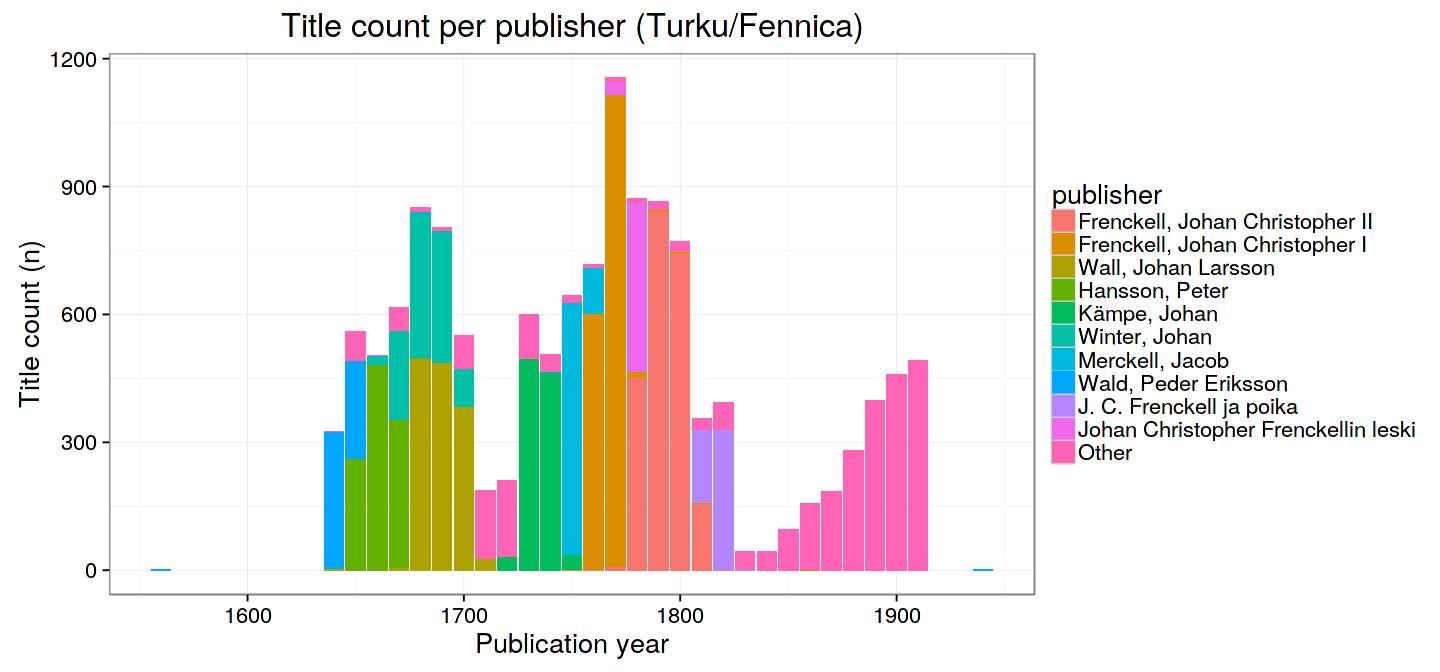
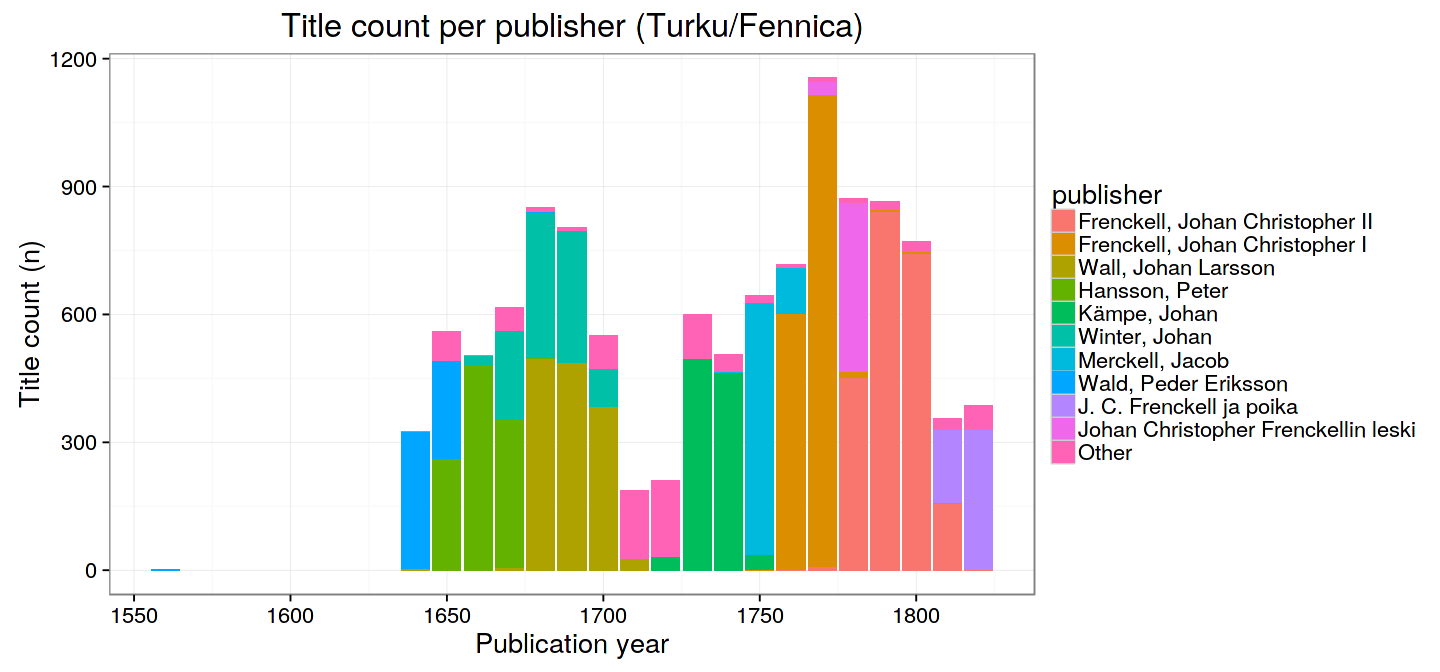
ok

diff --git a/inst/examples/manuscript-krakow.md b/inst/examples/manuscript-krakow.md
@@ -275,40 +275,102 @@ Samat analyysit kuin yllä, seuraavat asiasanaryppäät. Tarkoituksena analysoid
 
 Näissä kiinnostaa myös julkaisijakohtaiset vaihtelut (tai oikeastaan kaikki kuvat joita esim. BOOKINFINLAND-4:ssa. Tämä vain jatkaa siitä mihin tuo edellinen jää.
 
-\`\`\`{r topics44, echo=TRUE, message=FALSE, warning=FALSE, fig.width=12, fig.height=6, out.width="430px", fig.show="hold"}
-===========================================================================================================================
+**OK riittääkö alla olevat vai jotain vielä lisää?**
 
-selections = list( c("kirkkohistoria","raamatunhistoria","eksegetiikka","homiletiikka","dogmatiikka","teologia"), c("oppihistoria","antiikki","historia"), c("filosofia","luonnonfilosofia","metafysiikka","logiikka"), c("luonnontieteet","matematiikka","fysiikka","kemia","tähtitiede","maantiede","geodesia","geofysiikka","meteorologia"), c("retoriikka","poetiikka","kielitiede","kielioppi"), c("heprean kieli","kreikan kieli","latinan kieli"), c("psykologia","yhteiskuntafilosofia","valtiofilosofia","talous","raha","moraali","velvollisuudet","kasvatus","maanviljely","maatalous","kalastus"), c("luonnonhistoria","lääketiede","tartuntataudit","eläintiede","kasvitiede","kasvisto","eläimet","eläinsuojelu","eläimistö","eläintaudit","hevonen"), c("naiset","naisen asema","naisasialiikkeet","naisasiajärjestöt"), c("etsintäkuulutukset","rikokset","oikeus","rangaistukset"))
+``` r
+selections = list(
+  c("kirkkohistoria","raamatunhistoria","eksegetiikka","homiletiikka","dogmatiikka","teologia"),
+  c("oppihistoria","antiikki","historia"),
+  c("filosofia","luonnonfilosofia","metafysiikka","logiikka"),
+  c("luonnontieteet","matematiikka","fysiikka","kemia","tähtitiede","maantiede","geodesia","geofysiikka","meteorologia"),
+  c("retoriikka","poetiikka","kielitiede","kielioppi"),
+  c("heprean kieli","kreikan kieli","latinan kieli"),
+  c("psykologia","yhteiskuntafilosofia","valtiofilosofia","talous","raha","moraali","velvollisuudet","kasvatus","maanviljely","maatalous","kalastus"),
+  c("luonnonhistoria","lääketiede","tartuntataudit","eläintiede","kasvitiede","kasvisto","eläimet","eläinsuojelu","eläimistö","eläintaudit","hevonen"),
+  c("naiset","naisen asema","naisasialiikkeet","naisasiajärjestöt"),
+  c("etsintäkuulutukset","rikokset","oikeus","rangaistukset"))
+
 
 for (sel in selections) {
 
 print(paste(sel, collapse = ";"))
 
-catalogue &lt;- "Fennica" df = df0 df\(hit <- apply((sapply(sel, function (x) {grepl(x, tolower(df\)subject\_topic))})), 1, any)
+catalogue <- "Fennica"
+df = df0
+df$hit <- apply((sapply(sel, function (x) {grepl(x, tolower(df$subject_topic))})), 1, any)  
 
-Selected catalogue with selected topics
-=======================================
+# Selected catalogue with selected topics
+df <- df %>% filter(catalog == catalogue & hit)
 
-df &lt;- df %&gt;% filter(catalog == catalogue & hit)
+langs <- c("Finnish", "Swedish", "Latin", "German", "Other")
+lang <- paste("language.", langs, sep = "")
+otherlang <- setdiff(names(df)[grep("lang.", names(df))], lang)
+df$language.Other <- rowSums(df[, otherlang] == TRUE, na.rm = T) > 0
+dfl <- NULL
+for (lan in lang) {
+  # Classify a document to the specifed language
+  # If document is assigned with languages, each case is considered
+  # so one doc may have multiple entries corresponding to different languages
+  # mean(rowSums(df[, lang]) == 1) # 93% Fennica docs have just 1 language
+  # Combine data frames for specified languages
+  dflsub <- filter(df, df[[lan]])
+  if (nrow(dflsub) > 0) {
+    dflsub$language <- gsub("language.", "", lan)
+    dfl <- bind_rows(dfl, dflsub)
+  }
+}
+dfl$language <- factor(dfl$language, levels = names(table(dfl$language)))
 
-langs &lt;- c("Finnish", "Swedish", "Latin", "German", "Other") lang &lt;- paste("language.", langs, sep = "") otherlang &lt;- setdiff(names(df)\[grep("lang.", names(df))\], lang) df\(language.Other <- rowSums(df[, otherlang] == TRUE, na.rm = T) > 0 dfl <- NULL for (lan in lang) {  # Classify a document to the specifed language  # If document is assigned with languages, each case is considered  # so one doc may have multiple entries corresponding to different languages  # mean(rowSums(df[, lang]) == 1) # 93% Fennica docs have just 1 language  # Combine data frames for specified languages  dflsub <- filter(df, df[[lan]])  if (nrow(dflsub) > 0) {  dflsub\)language &lt;- gsub("language.", "", lan) dfl &lt;- bind\_rows(dfl, dflsub) } } dfl\(language <- factor(dfl\)language, levels = names(table(dfl$language)))
+# -------------------------------------------
 
--------------------------------------------
-===========================================
+df <- dfl %>% group_by(publication_decade, language) %>%
+             summarise(n = n(),
+                   paper = sum(paper.consumption.km2, na.rm = TRUE))
 
-df &lt;- dfl %&gt;% group\_by(publication\_decade, language) %&gt;% summarise(n = n(), paper = sum(paper.consumption.km2, na.rm = TRUE))
+# TITLE COUNT
+theme_set(theme_bw(20))
+p <- ggplot(df, aes(x = publication_decade, y = n, group = language)) +
+       geom_point(aes(col = language, shape = language), size = 5) +
+       geom_line(aes(col = language, shape = language)) +       
+       xlab("Publication year") +
+       ylab("Title count (n)") +
+       ggtitle(paste("Languages (", catalogue, ")", sep = ""))
+print(p)
 
-TITLE COUNT
-===========
 
-theme\_set(theme\_bw(20)) p &lt;- ggplot(df, aes(x = publication\_decade, y = n, group = language)) + geom\_point(aes(col = language, shape = language), size = 5) + geom\_line(aes(col = language, shape = language)) +
-xlab("Publication year") + ylab("Title count (n)") + ggtitle(paste("Languages (", catalogue, ")", sep = "")) print(p)
+# PAPER CONSUMPTION
+theme_set(theme_bw(20))
+p <- ggplot(df, aes(x = publication_decade, y = paper, group = language)) +
+       geom_point(aes(col = language, shape = language), size = 5) +
+       geom_line(aes(col = language, shape = language)) +       
+       xlab("Publication year") +
+       ylab("Paper consumption") +
+       ggtitle(paste("Languages (", catalogue, ")", sep = ""))
+print(p)
+}
+```
 
-PAPER CONSUMPTION
-=================
+    ## [1] "kirkkohistoria;raamatunhistoria;eksegetiikka;homiletiikka;dogmatiikka;teologia"
 
-theme\_set(theme\_bw(20)) p &lt;- ggplot(df, aes(x = publication\_decade, y = paper, group = language)) + geom\_point(aes(col = language, shape = language), size = 5) + geom\_line(aes(col = language, shape = language)) +
-xlab("Publication year") + ylab("Paper consumption") + ggtitle(paste("Languages (", catalogue, ")", sep = "")) print(p) } \#\`\`\`
+    ## [1] "oppihistoria;antiikki;historia"
+
+    ## [1] "filosofia;luonnonfilosofia;metafysiikka;logiikka"
+
+    ## [1] "luonnontieteet;matematiikka;fysiikka;kemia;tähtitiede;maantiede;geodesia;geofysiikka;meteorologia"
+
+    ## [1] "retoriikka;poetiikka;kielitiede;kielioppi"
+
+    ## [1] "heprean kieli;kreikan kieli;latinan kieli"
+
+    ## [1] "psykologia;yhteiskuntafilosofia;valtiofilosofia;talous;raha;moraali;velvollisuudet;kasvatus;maanviljely;maatalous;kalastus"
+
+    ## [1] "luonnonhistoria;lääketiede;tartuntataudit;eläintiede;kasvitiede;kasvisto;eläimet;eläinsuojelu;eläimistö;eläintaudit;hevonen"
+
+    ## [1] "naiset;naisen asema;naisasialiikkeet;naisasiajärjestöt"
+
+    ## [1] "etsintäkuulutukset;rikokset;oikeus;rangaistukset"
+
+<img src="figure_201606_Krakow/topics44-1.png" width="430px" /><img src="figure_201606_Krakow/topics44-2.png" width="430px" /><img src="figure_201606_Krakow/topics44-3.png" width="430px" /><img src="figure_201606_Krakow/topics44-4.png" width="430px" /><img src="figure_201606_Krakow/topics44-5.png" width="430px" /><img src="figure_201606_Krakow/topics44-6.png" width="430px" /><img src="figure_201606_Krakow/topics44-7.png" width="430px" /><img src="figure_201606_Krakow/topics44-8.png" width="430px" /><img src="figure_201606_Krakow/topics44-9.png" width="430px" /><img src="figure_201606_Krakow/topics44-10.png" width="430px" /><img src="figure_201606_Krakow/topics44-11.png" width="430px" /><img src="figure_201606_Krakow/topics44-12.png" width="430px" /><img src="figure_201606_Krakow/topics44-13.png" width="430px" /><img src="figure_201606_Krakow/topics44-14.png" width="430px" /><img src="figure_201606_Krakow/topics44-15.png" width="430px" /><img src="figure_201606_Krakow/topics44-16.png" width="430px" /><img src="figure_201606_Krakow/topics44-17.png" width="430px" /><img src="figure_201606_Krakow/topics44-18.png" width="430px" /><img src="figure_201606_Krakow/topics44-19.png" width="430px" /><img src="figure_201606_Krakow/topics44-20.png" width="430px" />
 
 ### Book as media: development over time
 
@@ -316,7 +378,9 @@ Paper consumption per document in the top publication places. Note that paper co
 
 <img src="figure_201606_Krakow/bookmedia2-1.png" width="430px" /><img src="figure_201606_Krakow/bookmedia2-2.png" width="430px" />
 
-Overview on how over 50 page documents spread in time. Paper consumption in books (over 50 pages; balls) versus other documents (less or equal than 50 pages; triangles). TODO: voidaanko tässä nähdä paikallisia eroja ?
+Overview on how over 50 page documents spread in time. Paper consumption in books (over 50 pages; balls) versus other documents (less or equal than 50 pages; triangles).
+
+TODO: voidaanko tässä nähdä paikallisia eroja ? **TODO MT: voin katsoa jos spesifoitte tarkemmin**
 
 <img src="figure_201606_Krakow/bookmedia1-1.png" width="430px" /><img src="figure_201606_Krakow/bookmedia1-2.png" width="430px" />
 
@@ -350,7 +414,9 @@ Number of unique publishers per decade in Finland and elsewhere (based on the Fe
 
 Number of unique publishers in top publication places over time (Fennica):
 
-![](figure_201606_Krakow/publishers2-finland-1.png) MITEN ON MAHDOLLISTA, ETTÄ VYBORG EI NÄY TÄSSÄ? Tai jos syynä että merkattu Suomen ulkopuolelle, niin se pitäisi saada tähän poikkeuksena mukaan. Tuolla alkupäässä sen pitäisi näkyä.
+![](figure_201606_Krakow/publishers2-finland-1.png)
+
+MITEN ON MAHDOLLISTA, ETTÄ VYBORG EI NÄY TÄSSÄ? Tai jos syynä että merkattu Suomen ulkopuolelle, niin se pitäisi saada tähän poikkeuksena mukaan. Tuolla alkupäässä sen pitäisi näkyä. **LL: oli poissa siksi etta Suomen ulkopuolelle merkattu - lisasin nyt poikkeuksena mukaan**
 
 Number of unique publishers in selected publication places over time (Kungliga). \[Julkaisijoiden osalta Kungligan aineiston osalta samat analyysit Tukholmasta, Lundista, Uppsalasta ja Greifswaldista. Tämä mahdollistaa Turun sijoittamisen kontekstiin.\]
 
@@ -360,7 +426,7 @@ Number of unique publishers in selected publication places over time (Kungliga).
 
 Title count per top publisher (two alternative visualizations):
 
-MT: Näissä ensimmäisissä kuvissa myös aikarajaus niin että loppuu 1828.
+MT: Näissä ensimmäisissä kuvissa myös aikarajaus niin että loppuu 1828. **LL OK DONE**
 
 ![](figure_201606_Krakow/publishers3-finland-1.png)![](figure_201606_Krakow/publishers3-finland-2.png)![](figure_201606_Krakow/publishers3-finland-3.png)![](figure_201606_Krakow/publishers3-finland-4.png)
 
